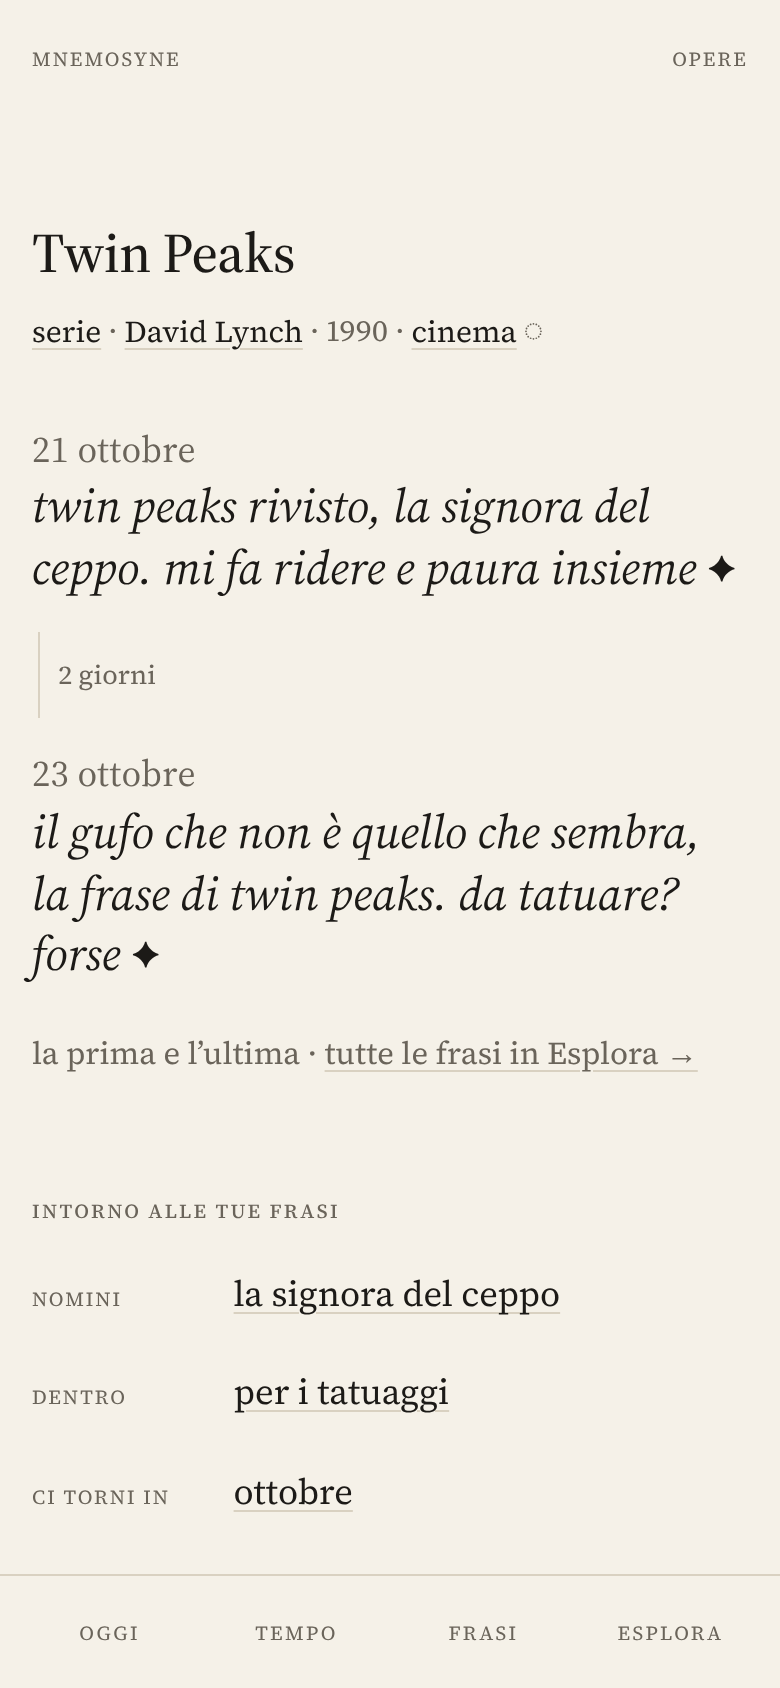
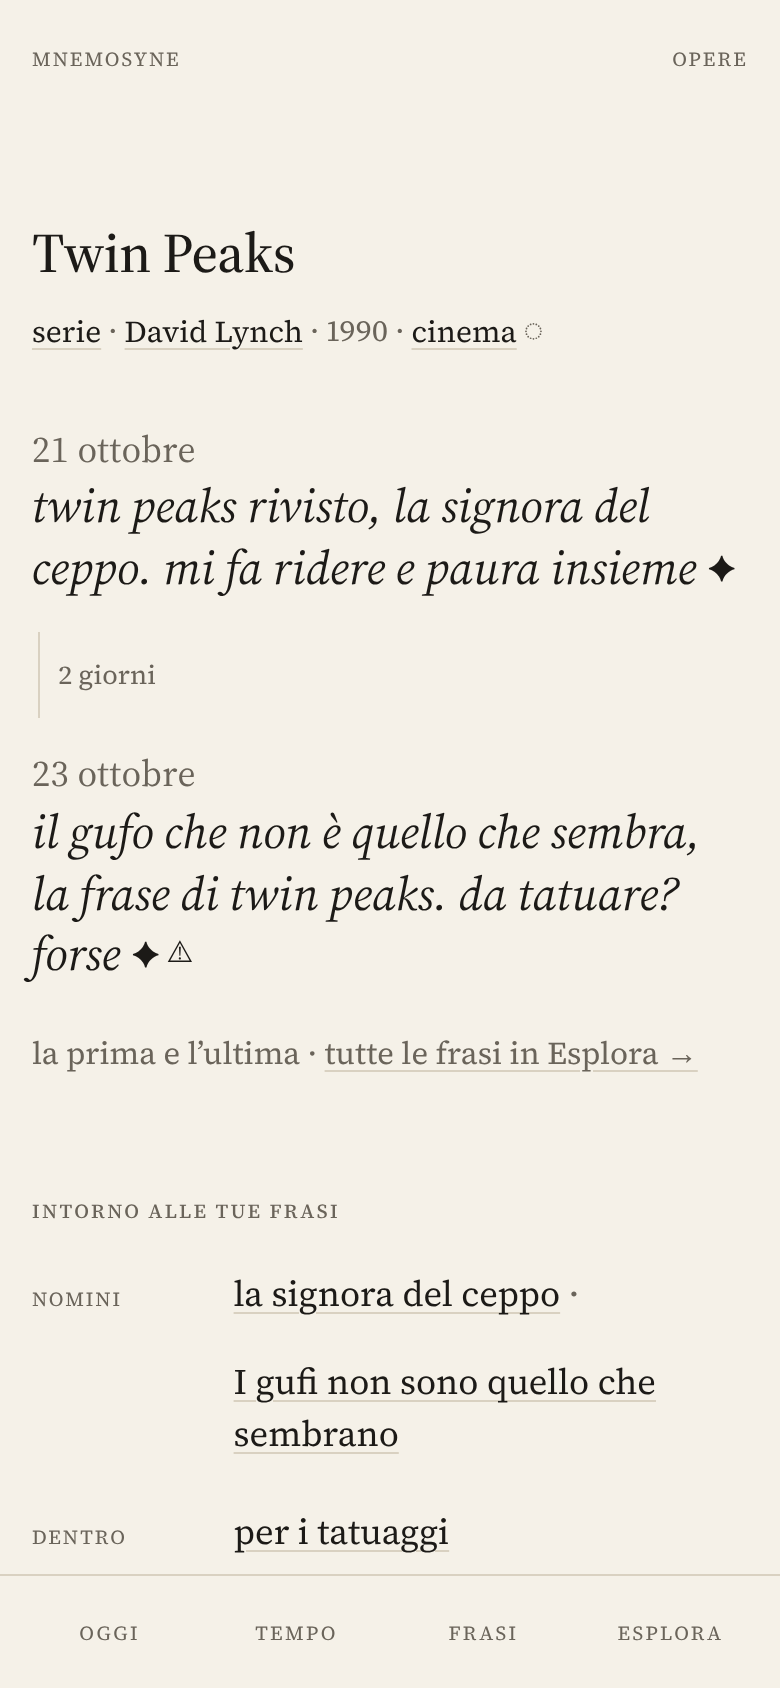
Sito: terzo giro dei giudici, correzioni ed esiti nel progetto
Claude-Session: https://claude.ai/code/session_016XqAM2UmaSasUMWv1BgCEh

diff --git a/progetto/sito/prototipo/index.html b/progetto/sito/prototipo/index.html
@@ -439,7 +439,8 @@ const tetto = (id) => `Entro il ${dataL(F[id].reg)}, nell’archivio d’origine
 // Una frase tua: sempre letta dal frammento (transclusione), mai ricopiata.
 function frase(id, { link = true, data = true, cls = '' } = {}) {
   const f = F[id];
-  const t = `<span class="sua ${cls}">${esc(f.testo)}${sg('sua')}</span>`;
+  const daVerif = (f.nomina || []).some((s) => NODI[s].genere === 'citazioni' && !NODI[s].esito);
+  const t = `<span class="sua ${cls}">${esc(f.testo)}${sg('sua')}</span>${daVerif ? vf : ''}`;
   const dt = !data ? '' : imp(id) ? `<span class="data">${tetto(id)}, trascritta da Claude nel seme:</span>` : `<span class="data">${dataL(f.reg)}</span>`;
   return `${dt}${link ? `<a href="#/frammento/${id}">${t}</a>` : t}`;
 }
@@ -490,7 +491,7 @@ function valori(id, lente) {
     else if (n.genere === 'citazioni') {
       v.nodi.add(s); v.cose.add('c:citazione'); v.cose.add('e:' + (n.esito || 'da-verificare')); v.cose.add('o:' + s);
       if (n.autore) persona(n.autore);
-      if (n.attribuita && n.attribuita !== n.autore) { const p = NODI[n.attribuita]; v.persone.add(n.attribuita); v.nodi.add(n.attribuita); if (p.in) opera(p.in, true); }
+      if (n.attribuita && n.attribuita !== n.autore) { const p = NODI[n.attribuita]; if (p.cerchia === 'vita') continue; v.persone.add(n.attribuita); v.nodi.add(n.attribuita); if (p.in) opera(p.in, true); }
     }
   }
   const temi = [...(f.temi || []), ...(lente ? f.prop || [] : [])];
@@ -525,7 +526,7 @@ function indirizzo(st = ESP) {
   const s = p.toString();
   return '#/esplora' + (s ? '?' + s : '');
 }
-const conValore = (asse, v, st = ESP) => { const sel = { ...st.sel }; sel[asse] = new Set([...(sel[asse] || []), v]); if (v.startsWith('e:')) sel[asse].delete('c:citazione'); return indirizzo({ ...st, sel }); };
+const conValore = (asse, v, st = ESP) => { const sel = { ...st.sel }; sel[asse] = new Set([...(sel[asse] || []), v]); if (v.startsWith('e:')) sel[asse].delete('c:citazione'); if (v.startsWith('t:') && NODI[v.slice(2)]) sel[asse].delete('s:' + NODI[v.slice(2)].specie); return indirizzo({ ...st, sel }); };
 const senzaValore = (asse, v, st = ESP) => { const sel = { ...st.sel }; const s = new Set(sel[asse]); s.delete(v); if (s.size) sel[asse] = s; else delete sel[asse]; return indirizzo({ ...st, sel }); };
 const solo = (asse, v, da) => indirizzo({ sel: { [asse]: new Set([v]) }, da: da || null, q: '', lente: false });
 
@@ -620,10 +621,11 @@ function risultatiEsplora() {
   const restr = [], oanche = [];
   if (ids.length) for (const a of ASSI) {
     const m = conteggi(a.k); const scelti = ESP.sel[a.k] || new Set();
+    if (a.k === 'temi' && [...scelti].some((s) => s.startsWith('s:'))) { const sp = [...scelti].filter((s) => s.startsWith('s:')); ordinati('temi', m).filter((x) => x.startsWith('t:') && sp.includes('s:' + NODI[x.slice(2)].specie) && m.get(x).n < tot).forEach((x) => restr.push([a, x, m.get(x)])); }
     if (a.k === 'cose' && scelti.has('c:citazione')) { const mm = conteggi('cose', { ...ESP, sel: { ...ESP.sel, cose: new Set(['c:citazione']) } }); ESITI.map((e) => 'e:' + e).filter((x) => mm.has(x) && mm.get(x).n).forEach((x) => restr.push([a, x, mm.get(x)])); }
     for (const x of ordinati(a.k, m)) {
       if (scelti.has(x) || !m.get(x).n) continue;
-      if (scelti.size) { if (!x.startsWith('e:') && !(x.startsWith('o:') && [...scelti].some((s) => s.startsWith('f:')))) oanche.push([a, x, m.get(x)]); }
+      if (scelti.size) { if (restr.some(([, y]) => y === x)) continue; if (!x.startsWith('e:') && !(x.startsWith('o:') && [...scelti].some((s) => s.startsWith('f:')))) oanche.push([a, x, m.get(x)]); }
       else if (m.get(x).n < tot && !(a.k === 'cose' && x.startsWith('e:'))) restr.push([a, x, m.get(x)]);
     }
   }
@@ -639,10 +641,10 @@ function risultatiEsplora() {
 function indiceEsplora() {
   return ASSI.map((a) => {
     const m = conteggi(a.k); const xs = ordinati(a.k, m).filter((x) => !(a.k === 'cose' && (x.startsWith('o:') || x.startsWith('e:'))) && !(a.k === 'temi' && x.startsWith('t:')));
-    const extra = a.k === 'temi' ? ordinati('temi', m).filter((x) => x.startsWith('t:')).slice(0, 6) : a.k === 'cose' ? ordinati('cose', m).filter((x) => x.startsWith('o:') && NODI[x.slice(2)].genere === 'opere').slice(0, 5) : [];
+    const extra = a.k === 'temi' ? ordinati('temi', m).filter((x) => x.startsWith('t:')).slice(0, 12) : a.k === 'cose' ? ordinati('cose', m).filter((x) => x.startsWith('o:') && NODI[x.slice(2)].genere === 'opere').slice(0, 5) : [];
     const voci = (lista) => lista.slice(0, a.k === 'persone' ? 8 : 12).map((x) => `<a href="${conValore(a.k, x)}">${CS(esc(etichetta(a.k, x)))}${numero(m.get(x))}</a>`).join('');
     if (!xs.length) return '';
-    return `<section class="asse${a.prop ? ' asse-prop' : ''}"><h2>${a.nome}${a.prop ? ' ◌ <span class="perche">scelto da me, sui nomi del mondo</span>' : ''}</h2>
+    return `<section class="asse${a.prop ? ' asse-prop' : ''}"><h2>${a.nome}${a.prop ? ' ◌ <span class="perche">scelto da me, sui nomi del mondo e sulle correnti</span>' : ''}</h2>
       <p class="valori">${voci(xs)}</p>${extra.length ? `<p class="valori secondi${a.k === 'cose' ? ' titoli' : ''}">${voci(extra)}</p>` : ''}</section>`;
   }).join('');
 }
@@ -680,9 +682,9 @@ function aggiornaEsplora() {
 function raccordiSoglia() {
   const vuoto = { sel: {}, da: null, q: '', lente: false };
   const c = (a) => conteggi(a, vuoto);
-  const xs = [['cose', 'f:canzone', 'canzoni'], ['cose', 'f:libro', 'libri'], ['cose', 'f:film', 'film'], ['temi', 's:stato', 'sentimenti ◌'], ['temi', 's:domanda', 'domande ◌'], ['campo', 'filosofia', 'filosofia ◌']]
+  const xs = [['cose', 'f:canzone', 'canzoni'], ['cose', 'f:libro', 'libri'], ['cose', 'f:film', 'film'], ['temi', 's:stato', 'sentimenti ◌'], ['temi', 's:domanda', 'domande ◌'], ['campo', 'filosofia', 'filosofia ◌', true]]
     .filter(([a, v]) => c(a).has(v));
-  return xs.length ? `<p class="raccordi"><span class="t">esplora</span> ${xs.map(([a, v, t]) => `<a href="${solo(a, v)}">${CS(t)}</a>`).join(' · ')}</p>` : '';
+  return xs.length ? `<p class="raccordi"><span class="t">esplora</span> ${xs.map(([a, v, t, p]) => `<a href="${solo(a, v)}"${p ? ' class="c-prop-l"' : ''}>${CS(t)}</a>`).join(' · ')}</p>` : '';
 }
 V.soglia = (stato) => {
   const delicato = stato === 'delicato';
@@ -835,7 +837,7 @@ function intorno(slug, ids) {
   const conta = (asse, filtro) => { const m = new Map(); ids.forEach((id) => val(id, false)[asse].forEach((x) => { if (filtro(x)) m.set(x, (m.get(x) || 0) + (imp(id) ? 0 : 1)); })); return [...m].filter(([, c]) => c > 0).sort((a, b) => b[1] - a[1]); };
   const riga = (titolo, asse, xs) => !xs.length ? '' : titolo === 'quando' ? `<p class="intorno"><span class="t">dentro</span><span class="vs">${xs.map(([x]) => `<a href="${da(slug, asse, x)}">${esc(etichetta(asse, x))}</a>`).join('<span class="sep"> · </span>')}</span></p>` : xs.length ? `<p class="intorno"><span class="t">${titolo}</span><span class="vs">${xs.map(([x]) => `<a href="${da(slug, asse, x)}">${esc(asse === 'tempo' ? MESI[+x.slice(5, 7) - 1] : etichetta(asse, x))}</a>`).join('<span class="sep"> · </span>')}</span></p>` : '';
   const temi = conta('temi', (x) => x.startsWith('t:') && x !== 't:' + slug);
-  const nomi = [...conta('persone', (x) => x !== slug && x !== NODI[slug].autore && x !== NODI[slug].attribuita).map(([x, c]) => ['p', x, c]), ...conta('cose', (x) => x.startsWith('o:') && x !== 'o:' + slug && NODI[x.slice(2)].genere === 'opere').map(([x, c]) => ['c', x, c])];
+  const nomi = [...conta('persone', (x) => x !== slug && x !== NODI[slug].autore && x !== NODI[slug].attribuita).map(([x, c]) => ['p', x, c]), ...conta('cose', (x) => x.startsWith('o:') && x !== 'o:' + slug && ['opere', 'citazioni'].includes(NODI[x.slice(2)].genere)).map(([x, c]) => ['c', x, c])];
   const gesti = conta('gesto', () => true);
   const mesi = conta('tempo', (x) => x !== 'origine').sort((a, b) => a[0].localeCompare(b[0]));
   const out = [
@@ -943,7 +945,7 @@ V.assenze = () => `<div class="pagina">${testa('assenze')}
   <p class="servizio">Al più tre; oggi due. I numeri vengono da mappa.md.</p>
   <ol class="righe">
     <li><a href="#/nodo/wislawa-szymborska">Wisława Szymborska</a>: <span class="sua">la voglio rileggere</span>${sg('sua')}, il 18 ottobre. Fruizione: da fare. Nessun ritorno.</li>
-    <li><a href="#/nodo/mare">mare</a>: ✦2 tra il 21 settembre e il 26 ottobre, poi niente.</li>
+    <li><a href="#/nodo/mare">mare</a>: ✦${frasiDi('mare').filter((id) => !imp(id)).length} tra il ${dataL(F[frasiDi('mare')[0]].reg)} e il ${dataL(F[frasiDi('mare').slice(-1)[0]].reg)}, poi niente.</li>
   </ol></div>`;
 
 V.tatuaggi = (stampa) => {

diff --git a/progetto/sito/progetto.md b/progetto/sito/progetto.md
@@ -523,7 +523,7 @@ tatuatore deve sapere che cosa è tuo). Fuori: il link alle idee importate, ogni
 `cerchia: vita`, la barra, i link. Il filtro si fa sui **dati** (la funzione esclude), non solo con il CSS. È l'unica
 uscita voluta del sito.
 
-**Vuoto.** «Nessun pezzo ancora.» e il margine ◌, se c'è.
+**Vuoto.** «Nessun pezzo ancora.» e il link alle idee importate, se c'è.
 
 **Delicato.** Un delicato con `serve-a: tatuaggi` (un tatuaggio per un lutto) non entra finché un tuo frammento non ci
 torna sopra.
@@ -553,7 +553,7 @@ sempre in E.
 - **Senza filtri, l'indice** (`esplora-tel.png`, `esplora-giu-tel.png`): sotto una riga di servizio («Tocca una parola
   per filtrare; le scelte si incrociano.»), un asse per sezione, con i valori come parole e il numero piccolo accanto:
   «canzone 2 · libro 4 · film 2 · serie 3 · citazioni 4», poi in corsivo le opere più presenti; le persone; i temi per
-  specie («sentimenti 6 · idee 8 · domande 2…») e poi i temi; il campo, smorzato, con «◌ scelto da me, sui nomi del
+  specie («sentimenti ◌ 6 · idee ◌ 8 · domande ◌ 2…») e poi i temi; il campo, smorzato, con «◌ scelto da me, sui nomi del
   mondo»; i gesti; i mesi. È la parte del **navigare**: si vede che cosa c'è prima di filtrare.
 - **Con un filtro, i risultati** (`esplora-risultati-tel.png`, `esplora-filosofia-tel.png`): la riga del totale («3
   frasi · e 1 dall'archivio d'origine, fuori dai conti · 5 nomi»), poi **nomi** (i nodi che danno il valore scelto, come
@@ -592,8 +592,8 @@ delicato Esplora resta raggiungibile dalla barra, ma la soglia non lo propone co
 **Persone `cerchia: vita`.** Non sono valori dell'asse persone e non hanno campo; non compaiono tra i nomi sotto le
 frasi. Le trova solo la parola (scrivendo il nome).
 
-**Segni.** ✦ sulle frasi; ◌ sul campo e sulle frasi che entrano per una proposta; ⚠ sulle citazioni senza esito; forma,
-la specie con il ◌ (sentimenti ◌); tipo e gesto senza segno (un fatto del mondo verificabile; un calcolo dai tuoi campi). Nessuna legenda: non è una forma lunga.
+**Segni.** ✦ sulle frasi; ◌ sul campo e sulle frasi che entrano per una proposta; ⚠ sulle citazioni senza esito, anche
+dentro la frase che le nomina; la specie con il ◌ (sentimenti ◌); tipo e gesto senza segno (un fatto del mondo verificabile; un calcolo dai tuoi campi). Nessuna legenda: non è una forma lunga.
 
 **NON mostra.** Emozioni dedotte, un tono del frammento, «correlati», «popolari», un ordinamento per reazione,
 suggerimenti, un grafico dei conteggi, valori a zero, le persone della vita nelle liste, il seme ✧ tra i risultati
@@ -794,6 +794,8 @@ rumore) e passa con **zero violazioni sostanziali**. Al più tre giri; gli esiti
 
 ## 9. Gli esiti dei giudici sul prototipo
 
+### 9.1 La soglia e il nodo vecchio (3 novembre)
+
 Due subagent separati, senza il ragionamento di questa sessione, a ogni giro. **Giudice A** (le regole): ha
 `CLAUDE.md`, il prototipo e le foto, e cerca le violazioni. **Giudice B** (la meraviglia): ha solo cinque foto
 (soglia chiara, scura, desktop; nodo; tavola del nodo) e un brief di tre righe; risponde sì o no, e «sì con riserve»
@@ -823,12 +825,54 @@ con il giudice cieco: sul nodo il selettore diventa una riga di servizio in fond
 proposte»), e la tavola del nodo si offre solo quando ha almeno tre vicini tenuti da tue frasi (con due, «non mi
 mostra niente che non sapessi già»).
 
+### 9.2 Esplora e il nodo nuovo (4 novembre)
+
+Due subagent separati per giro, senza il ragionamento della sessione. **Giudice A** (le regole): `CLAUDE.md`,
+`dimensioni.md`, le sezioni nuove di questo documento, il prototipo e le foto. **Giudice B** (l'utente): solo il
+prototipo e le 12 domande di `dimensioni-dati.md` §4 (con i nomi dei dati sintetici); a ogni domanda dice se ci arriva,
+in quanti tocchi dalla soglia, se il risultato è giusto; poi sì o no a pancia su Esplora e sul nodo («sì con riserve»
+vale no).
+
+| giro | giudice A (regole) | giudice B: domande (sì · in parte) | tocchi medi | B: Esplora | B: nodo |
+|---|---|---|---|---|---|
+| 1 | **non passa**: 3 sostanziali (la migrazione toccava le restituzioni immutabili; la correzione di un valore congelato senza bersaglio; «penso» da una tensione dell'AI senza ◌) e 8 minori | 11 · 1 (Arendt fuori da «filosofia») | 2,7 | **sì** | **sì** (il fondo «sa di programma») |
+| 2 | **non passa**: 4 sostanziali (la `a` della correzione dev'essere un frammento; «penso» con due definizioni; un'attribuzione a un personaggio inventata dall'AI; la specie senza ◌ in §3.4) e 6 minori | 10 · 2 (O dentro un asse; «da verificare» sotto «citazioni») | 2,3 | **sì** | **sì** |
+| 3 | **non passa**: 1 sostanziale (`brano` → `canzone` dimenticato in `schema/piano.json` e `prompt/progetto.md`) e 13 minori | 11 · 1 (Arendt, di nuovo) | 2,3 | **sì** | **sì** |
+
+**Che cosa è cambiato tra i giri.**
+- Lo schema 4 tocca solo i nodi: letture e restituzioni restano a 3 e lo schema le accetta (dimensioni §3, §5).
+- `forma` è diventato `tipo` (due significati di `forma` nel modello); il tipo ha sempre una fonte e non porta segno;
+  specie e campo sono ◌, in pagina.
+- «Penso» ha una definizione sola (i capi di un `contraddice` ✦ o ●; i proposti solo con la lente, con il ◌).
+- La correzione di un valore ha come `a` il primo frammento di `nato-da`, non delicato e non importato.
+- Esplora: «restringi» e «o anche» sotto il totale, senza tagli; gli esiti raffinano le citazioni; un tema raffina la
+  sua specie; la parola è una chip. Il nodo: tutte le frasi insieme prima dell'intorno; l'intorno senza numeri e con
+  etichette in parole; la persona della vita senza link a Esplora. La tavola dei tatuaggi calcolata dai dati.
+
+**Dopo il terzo giro** (non rigiudicate, perché i giri erano finiti): la sostanziale è chiusa (dimensioni §3.2 e
+§4.5); delle minori sono corrette: il vincolo di `piano.json` allargato a `migra`; `crea-nodo` rifiuta i tre campi
+chiunque crei; `schema 3 o 4` anche per la restituzione in `CLAUDE.md`; il tipo non più «dal nome»; il bersaglio non
+delicato e non importato; come `verifica.mjs` lega il congelamento alla correzione; il refuso e il ◌ in §3.12; il
+margine ◌ dei tatuaggi; il conto di «mare» nelle assenze calcolato; il controllo `vita` sull'`attribuita-a`; «filosofia
+◌» smorzata sulla soglia; l'etichetta del campo («e sulle correnti»); il ⚠ accanto a ogni frase che nomina una citazione
+senza esito; l'opera che nomina le sue citazioni; più temi nell'indice. Il giudice B, giro 3, chiedeva anche il campo
+«filosofia» per una citazione ⚠ attribuita a una filosofa: **non si fa**, per la regola del giudice A (un'attribuzione
+non verificata non dà campo); la frase si trova da Persone e da «citazioni › da verificare».
+
+**Esito.** Il giudice B ha detto sì a Esplora e al nodo in tutti e tre i giri: il nodo, bocciato tre volte nella
+sessione precedente, passa. Il giudice A non ha passato nessun giro, con le sostanziali scese da 3 a 4 a 1; l'ultima è
+chiusa ma non rigiudicata. Va rigiudicato in B5 e B7, con il giudice cieco.
+
 ---
 
 ## 10. Dubbi aperti
 
-1. **Il nodo non ha ancora la sua meraviglia** (§9): il selettore degli strati e una tavola povera. È il primo lavoro di
-   B5.
+1. **Il nodo** (§9.2) ora passa il giudice dell'utente; resta da provare su dati veri, dove un nodo può avere 40 frasi:
+   «le altre» sono 4, il resto è in Esplora. Il fondo («intorno alle tue frasi») è la parte che sa ancora un po' di
+   programma.
+8. **Una citazione ⚠ non dà campo** (dimensioni §1.5): «filosofia» non trova una frase che attribuisco a una filosofa
+   finché "consolida" non la verifica. È prudente, ma l'utente se lo aspetterebbe (giudice B, giri 1 e 3).
+9. **Lo schema 4 è una proposta** (dimensioni.md): senza, Esplora funziona a metà. Va deciso con la porta del blocco 6.
 2. **La soglia ha una sola cosa, ma due stati che si alternano** (la coppia e il ritorno). Se le restituzioni sono
    frequenti, il ritorno non compare quasi mai. Da guardare dopo un mese (B10).
 3. **Il campo scuro dei tatuaggi anche nel tema chiaro** è una scelta di forma, non di tema: va confermata dall'utente.

diff --git a/progetto/sito/dimensioni.md b/progetto/sito/dimensioni.md
@@ -309,10 +309,12 @@ Una lapide (`fuso-in`) non porta i campi nuovi: la regola che c'è già lo garan
 Nel legame, l'enum di `campo` della correzione si allunga: `{"enum": ["autore", "attribuita-a", "in", "nome", "tipo",
 "specie", "campo"]}`. In `lettura` e `restituzione`, `"schema": {"enum": [3, 4]}`.
 
-In `restituzione.voci.items.properties.cosa` la voce `brano` diventa `canzone`. In `schema/piano.json`, `ciclo` ammette
-anche `migra` (lo scrittore della migrazione, §5), e
-`aggiorna-nodo` accetta `tipo`, `specie`, `campo`; `crea-nodo` **no** (li rifiuta: la creazione resta di "smista", che
-non li scrive).
+In `restituzione.voci.items.properties.cosa` la voce `brano` diventa `canzone`, e così **in ogni posto che la elenca**:
+l'enum di `cosa` in `schema/piano.json` (oggi alla riga 265) e l'esempio e l'elenco di `cosa` in `prompt/progetto.md`
+(oggi alle righe 79–80 e 89), altrimenti una risposta del Progetto su una canzone sarebbe rifiutata (§4.5). In
+`schema/piano.json`, `ciclo` ammette anche `migra` (lo scrittore della migrazione, §5), e il vincolo che oggi tiene
+`aggiorna-nodo` solo in "consolida" si allarga a `consolida | migra`; `aggiorna-nodo` accetta `tipo`, `specie`,
+`campo`; `crea-nodo` **no**: li rifiuta, chiunque crei il nodo ("smista", Specchio o "consolida").
 
 ### 3.3 Che cosa controlla `verifica.mjs`
 
@@ -321,11 +323,15 @@ non li scrive).
 2. `campo` su un tema che non sia `specie: corrente`: rifiuto.
 3. Un valore fuori vocabolario: rifiuto (lo schema).
 4. **Il congelamento.** Un `aggiorna-nodo` che cambia un `tipo`, una `specie` o un `campo` già scritti è rifiutato,
-   salvo che risponda a un `ritorna-su … come: corregge` dell'utente con `campo: tipo | specie | campo`. I valori
-   chiusi non si rigenerano (letteratura §3.4: le etichette dei modelli sono instabili tra esecuzioni).
+   salvo che risponda a un `ritorna-su … come: corregge` dell'utente con `campo: tipo | specie | campo`. Come lo sa
+   `verifica.mjs`, che legge i file: confronta il nodo con HEAD e, se uno dei tre valori cambia, cerca nella stessa
+   transazione (le letture nuove o in attesa) un `corregge` con lo stesso `nodo` e lo stesso `campo`, il cui `valore`
+   è il valore nuovo; senza, rifiuta. I valori chiusi non si rigenerano (letteratura §3.4: le etichette dei modelli sono instabili tra esecuzioni).
 5. **Come l'utente corregge o rifiuta un valore.** In `ritorna-su … corregge`, `campo` ammette anche `tipo`, `specie`,
    `campo` (oggi: autore, attribuita-a, in, nome). Il nodo si nomina in `nodo`, come oggi; la `a` del `ritorna-su`
-   resta un frammento, come vuole lo schema: **il primo frammento di `nato-da` del nodo**. Questi valori non stanno in
+   resta un frammento, come vuole lo schema: **il primo frammento di `nato-da` del nodo che non sia delicato né
+   importato** (un `ritorna-su` verso un delicato lo farebbe «ripreso» senza volerlo; un importato è fuori dai conti).
+   Se non ce n'è, la correzione si fa nominando il nodo in un memo, e `a` è quel memo stesso. Questi valori non stanno in
    nessuna prosa recente, quindi per una correzione di `tipo`, `specie` o `campo` la finestra dei 3 giorni non si
    applica: è un'eccezione nuova, da scrivere nei «Confini» di `CLAUDE.md` (§4.1). Il gesto del sito (`progetto.md` §5)
    mette nel memo il nome del nodo («twin peaks è un film, non una serie → twin-peaks»); "smista" risolve lo slug e
@@ -357,7 +363,8 @@ Righe proposte, da approvare; i file restano come sono fino alla porta del blocc
 - §Un file, un solo scrittore, riga dei nodi, in coda: «e le migrazioni (ciclo `migra`)».
 - §I quattro tipi, **lettura**: «`schema: 3` o `4`»; **restituzione**, `cosa`: «canzone» al posto di «brano».
 - §Confini: «una correzione di `tipo`, `specie` o `campo` non ha la finestra dei 3 giorni: `a` è il primo frammento di
-  `nato-da` del nodo».
+  `nato-da` del nodo, non delicato e non importato».
+- §I quattro tipi, **restituzione**: «`schema: 3` o `4`».
 - §I quattro tipi, **lettura**: nessun campo nuovo. Il gesto «penso» e gli altri si calcolano.
 - §Regole di provenienza 10, in coda: «Il `campo` e la `specie` non danno nomi: i temi restano le mie parole, e
   "filosofia" nel campo non è un tema.»
@@ -379,7 +386,7 @@ Nient'altro: "smista" non classifica.
 Un passo nuovo nella Fase A, dopo A3:
 
 > A3b. **Da classificare.** Per ogni nodo nella sezione «Da classificare» di `mappa.md`, `aggiorna-nodo` con:
-> - `tipo` per un'opera: dal nome e dalle mie parole; se non basta, una verifica rapida sul nome `mondo` (mai su
+> - `tipo` per un'opera: dalle mie parole («la canzone…»), o da una verifica rapida sul nome `mondo` (mai su
 >   persone `vita`). Nel dubbio, niente: resta in coda.
 > - `specie` per un tema: `stato` se l'ho usato per dire come mi sento; `domanda` se è una domanda; `corrente` se è una
 >   scuola di pensiero o di stile; `simbolo` se è una cosa, un luogo o una figura usati come immagine; `stile` se è
@@ -396,6 +403,10 @@ E in A5 (correzioni): «`campo` della correzione può essere anche `tipo`, `spec
 
 Nella tabella delle operazioni, `aggiorna-nodo` elenca `tipo`, `specie`, `campo` tra i campi ammessi; `crea-nodo` no.
 
+### 4.5 `prompt/progetto.md`
+
+Nell'esempio e nell'elenco di `cosa` del memo del Progetto, `brano` diventa `canzone`. Nient'altro.
+
 ---
 
 ## 5. La migrazione
@@ -409,7 +420,7 @@ versioni): lo schema 4 le accetta anche a 3.
 | che cosa | quanti | da dove si ricava |
 |---|---|---|
 | `schema: 3 → 4` | 52 nodi (le 35 letture e le 60 restituzioni restano a 3) | meccanico |
-| `tipo` sulle opere | 6 | dal nome e dal vecchio percorso del `link` (`/fonti/opere/`); il resto con una verifica rapida sul nome |
+| `tipo` sulle opere | 6 | dalle parole dell'utente o da una verifica rapida sul nome (il vecchio percorso `/fonti/opere/` non dice il tipo) |
 | `specie` sui temi | 35 | 22 dal percorso del `link`: `/emozioni/` → `stato` (10), `/domande/` → `domanda` (8), `/stile/` → `stile` (2), `/fonti/pensiero/` → `corrente` (2); 12 `/concetti/` letti uno per uno (`idea`, `simbolo` o `corrente`); 1 senza link |
 | `campo` sulle persone | 8 (7 `mondo`, 1 `finzione`) | il vecchio percorso del `link` (`/fonti/pensiero/`, `/fonti/psicologia/`, `/fonti/sacro-e-mito/`) e una verifica rapida |
 | `campo` sulle opere | 6 | idem |
